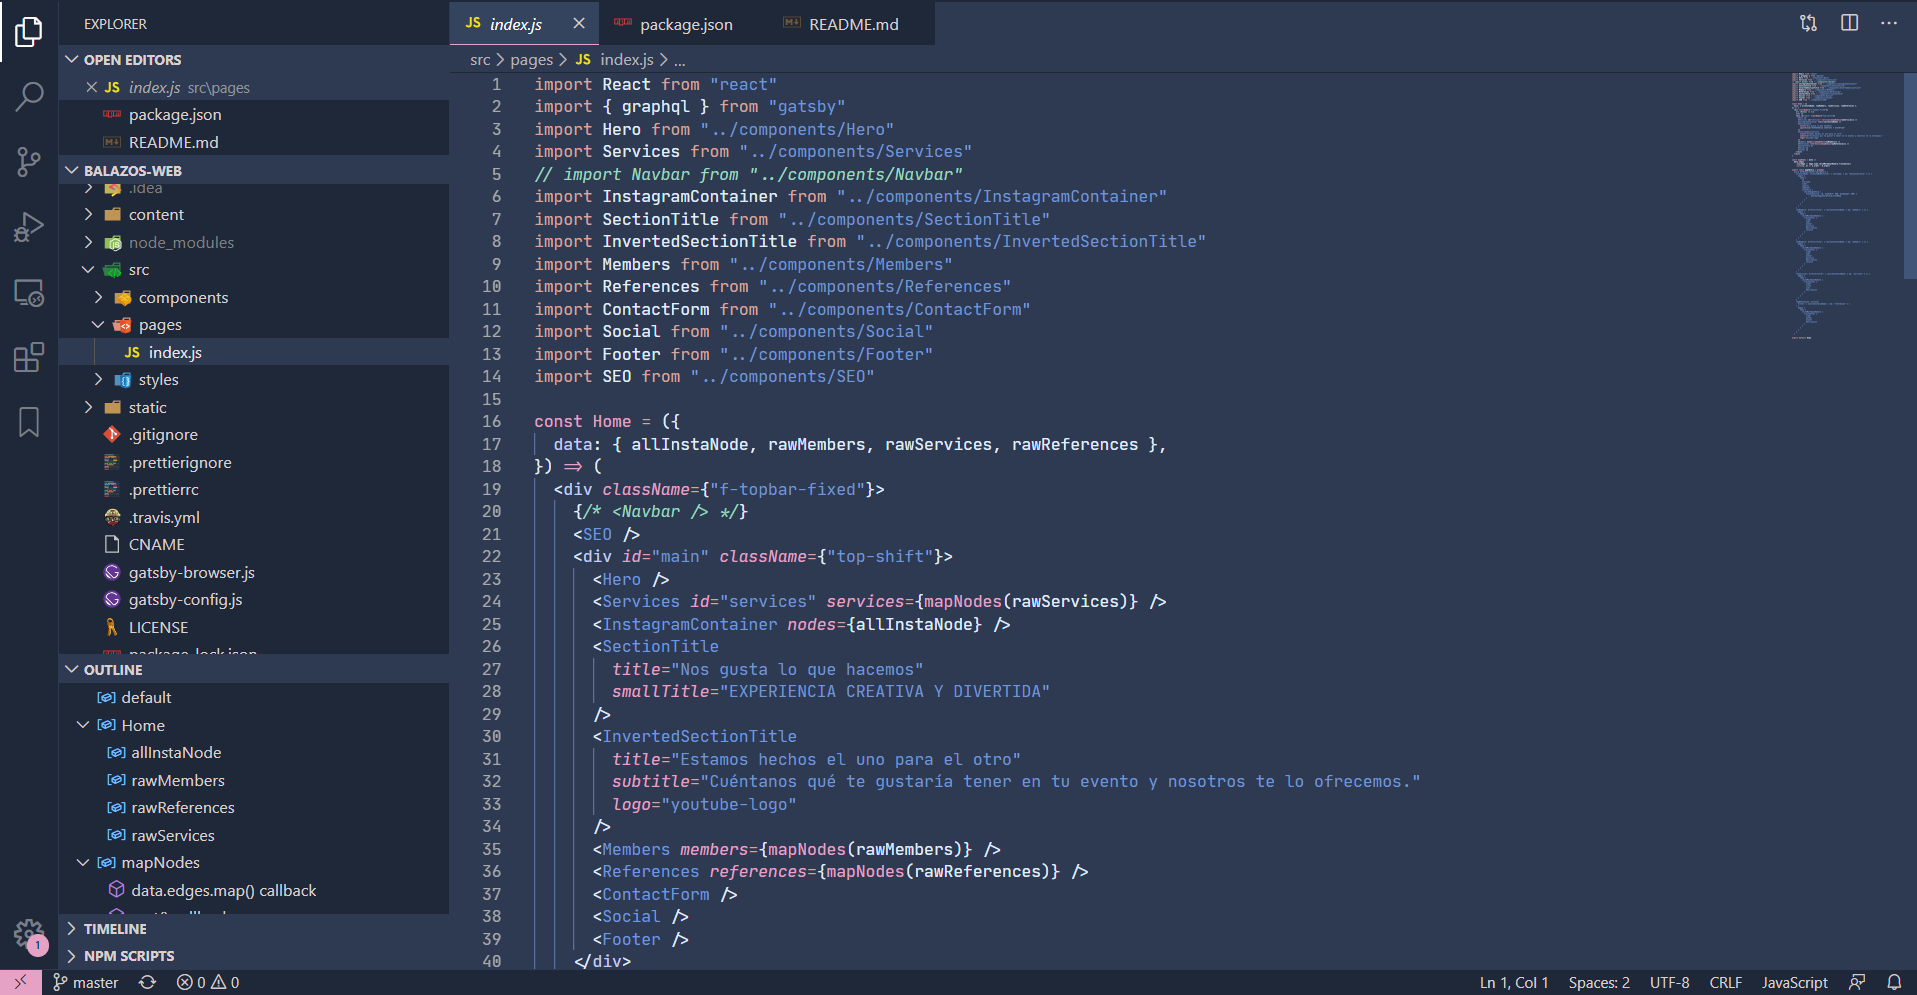
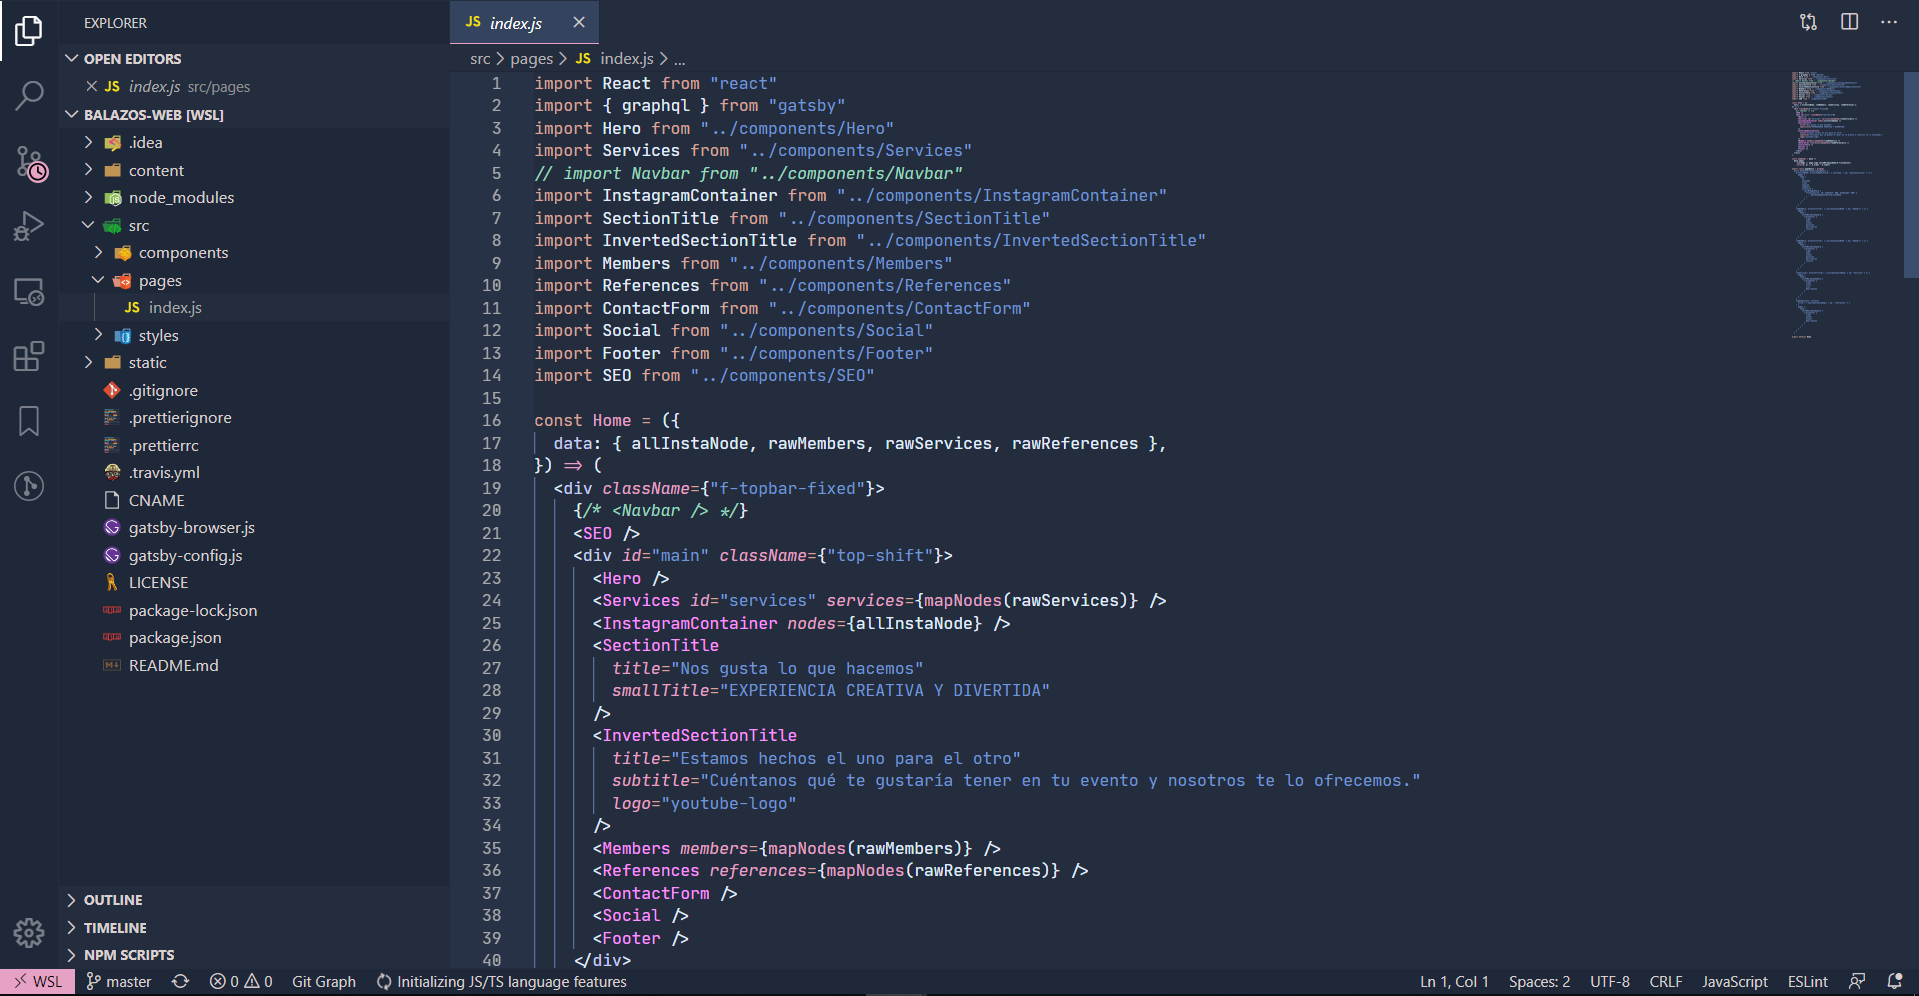
feat: add contrast. Modify jsx tag colors

diff --git a/vscode-theme/src/dark/index.js b/vscode-theme/src/dark/index.js
@@ -9,6 +9,7 @@ const {
   FG_TH3,
   FG_TH4,
   FG_TH5,
+  FG_TH6,
 } = require('./colors');
 
 const theme = {
@@ -356,6 +357,19 @@ const theme = {
         "foreground": "#fff"
       }
     },
+    { "name": "HTML tag",
+      "scope": "entity.name.tag.js",
+      "settings": {
+        "foreground": FG_TH2,
+      }
+    },
+    {
+      "name": "JSX tag",
+      "scope": "support.class.component.js",
+      "settings": {
+        "foreground": FG_TH3,
+      }
+    },
     {
       "name": "Meta Brace",
       "scope": "meta.brace",
@@ -374,14 +388,14 @@ const theme = {
       "name": "Punctuation Parameters",
       "scope": "punctuation.definition.parameters",
       "settings": {
-        "foreground": "#ffee80"
+        "foreground": FG_TH6
       }
     },
     {
       "name": "Punctuation Template Expression",
       "scope": "punctuation.definition.template-expression",
       "settings": {
-        "foreground": "#ffee80"
+        "foreground": FG_TH6
       }
     },
     {
@@ -496,7 +510,7 @@ const theme = {
         "source.stylus support.constant"
       ],
       "settings": {
-        "foreground": "#ffee80"
+        "foreground": FG_TH6
       }
     },
     {
@@ -508,7 +522,7 @@ const theme = {
         "source.stylus punctuation.definition.string"
       ],
       "settings": {
-        "foreground": "#ffee80"
+        "foreground": FG_TH6
       }
     },
     {
@@ -574,7 +588,7 @@ const theme = {
       "name": "[INI] - Punctuation Definition",
       "scope": "source.ini punctuation.definition",
       "settings": {
-        "foreground": "#ffee80"
+        "foreground": FG_TH6
       }
     },
     {
@@ -760,7 +774,7 @@ const theme = {
       "name": "[PUG] - String Interpolated",
       "scope": "text.jade string.interpolated",
       "settings": {
-        "foreground": "#ffee80"
+        "foreground": FG_TH6
       }
     },
     {
@@ -788,7 +802,7 @@ const theme = {
       "name": "[TYPESCRIPT] - Punctuation Arrow Parameters",
       "scope": "meta.arrow.ts punctuation.definition.parameters",
       "settings": {
-        "foreground": "#ffee80"
+        "foreground": FG_TH6
       }
     },
     {

diff --git a/vscode-theme/src/dark/colors.js b/vscode-theme/src/dark/colors.js
@@ -1,5 +1,5 @@
 const BG = "#1F2838";
-const BG2 = "#2D3A52";
+const BG2 = "#232D3E";
 const BG3 = "#E6A2C5";
 const INFO_BG = "#527A86";
 
@@ -9,6 +9,7 @@ const FG_TH2 = "#C7CEF6";
 const FG_TH3 = "#fb94ff";
 const FG_TH4 = "#6f98DE";
 const FG_TH5 = "#7496D2";
+const FG_TH6 = "#DAC391"; // yellowish
 
 module.exports = {
   BG,
@@ -21,4 +22,5 @@ module.exports = {
   FG_TH3,
   FG_TH4,
   FG_TH5,
+  FG_TH6,
 };
